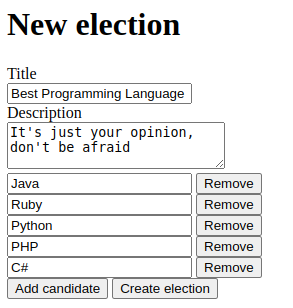
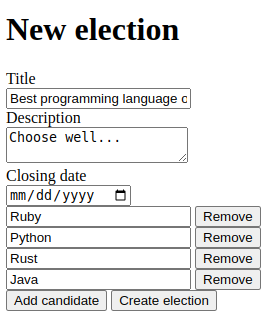
docs: add CHANGELOG and update README with new learnings

Changed region(s): [[0.0, 0.2045, 0.9429, 0.9935], [0.0286, 0.0292, 0.6571, 0.1461]]

diff --git a/CHANGELOG.md b/CHANGELOG.md
@@ -1,0 +1,8 @@
+# v2 (December 27, 2024)
+
+Below is a list of all new features, and breaking changes
+
+## New features
+
+- Create election: It is now possible to assign an (optional) closing date, allowing users to vote until that date, and 2 candidate inputs are now built by default
+- Voting: If a closing date is assigned, results can only be displayed after the date

diff --git a/README.md b/README.md
@@ -43,3 +43,5 @@ rails server
 - How to fix N+1 queries with **Bullet**
 - How to use charts with **Chartkick**
 - How to create nested and dynamic forms with **Rails Nested Form**
+- How to create tests with **RSpec**
+- How to manage **Github Workflows**
